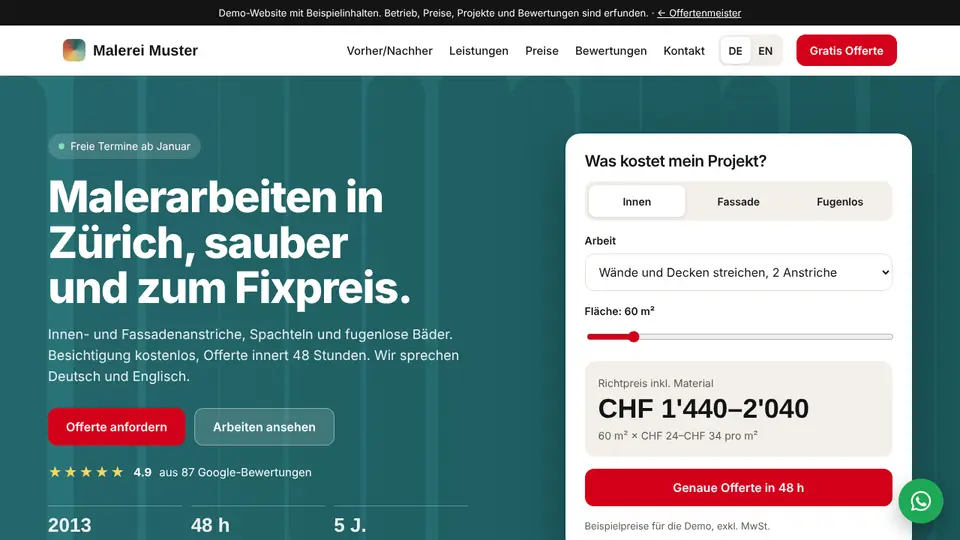
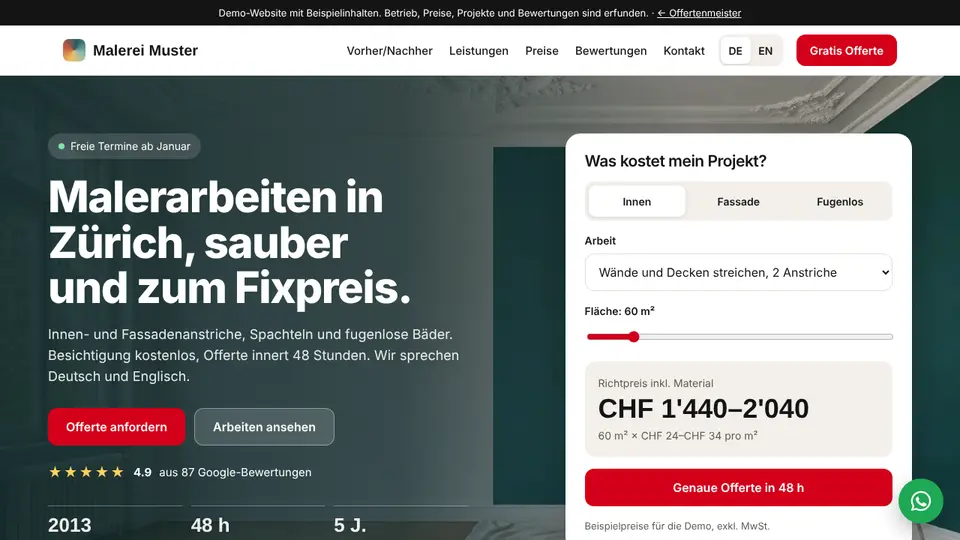
Basic-Demo: echte Fotos für Titelbild, Vorher/Nachher (2 Projekte), Inhaber und Leistungen
Claude-Session: https://claude.ai/code/session_01QJ9qhBWSWt6m13eEh928jz

diff --git a/demo/basic/index.html b/demo/basic/index.html
@@ -38,8 +38,10 @@ nav .wrap{display:flex;align-items:center;gap:18px;padding:12px max(5vw,16px)}
 .btn svg{width:20px;height:20px;fill:currentColor;flex:none}
 .btn:focus-visible,input:focus-visible,select:focus-visible,summary:focus-visible,button:focus-visible,.ba input:focus-visible{outline:3px solid var(--red);outline-offset:2px}
 nav .btn{min-height:42px;padding:0 18px;font-size:15px}
-.hero{position:relative;background:var(--petrol);color:#fff;overflow:hidden;padding-bottom:clamp(48px,6vw,88px)}
-.hero>svg{position:absolute;inset:0;width:100%;height:100%}
+.hero{position:relative;background:#0e2628;color:#fff;overflow:hidden;padding-bottom:clamp(48px,6vw,88px)}
+.hero-bg{position:absolute;inset:0;width:100%;height:100%;object-fit:cover;object-position:center}
+.hero::before{content:"";position:absolute;inset:0;z-index:1;background:linear-gradient(90deg,rgba(14,38,40,.92) 0%,rgba(14,38,40,.78) 42%,rgba(14,38,40,.25) 72%,rgba(14,38,40,.1) 100%)}
+.hero .hgrid{z-index:2}
 .hgrid{position:relative;display:grid;grid-template-columns:minmax(0,1.15fr) minmax(0,.85fr);gap:clamp(28px,5vw,72px);align-items:center}
 .pill{display:inline-flex;gap:8px;align-items:center;background:rgba(255,255,255,.14);border-radius:999px;padding:6px 14px;font-size:14px;margin-bottom:20px}
 .pill b{width:8px;height:8px;border-radius:50%;background:#7ee2a8}
@@ -69,16 +71,19 @@ input[type=file]{padding:12px}
 .sec-head{display:flex;flex-wrap:wrap;justify-content:space-between;align-items:end;gap:14px 40px}
 .sec-head p{color:var(--soft);max-width:34em}
 .ba{position:relative;margin-top:30px;border-radius:20px;overflow:hidden;height:clamp(260px,38vw,440px);background:#bdb6ab;user-select:none}
-.ba svg{position:absolute;inset:0;width:100%;height:100%}
+.ba img{position:absolute;inset:0;width:100%;height:100%;object-fit:cover}
 .ba .after{clip-path:inset(0 0 0 var(--x,50%))}
 .ba .bar{position:absolute;top:0;bottom:0;left:var(--x,50%);width:3px;background:#fff;transform:translateX(-50%);pointer-events:none}
 .ba .knob{position:absolute;top:50%;left:var(--x,50%);width:52px;height:52px;border-radius:50%;background:#fff;color:#141414;display:grid;place-items:center;transform:translate(-50%,-50%);font-weight:800;box-shadow:0 6px 18px rgba(0,0,0,.25);pointer-events:none}
 .ba input{position:absolute;inset:0;width:100%;height:100%;opacity:0;cursor:ew-resize;margin:0}
+.proj{display:flex;gap:8px;margin-top:14px;flex-wrap:wrap}.proj button{font:600 15px Inter,sans-serif;min-height:46px;padding:0 18px;border-radius:999px;border:1.5px solid var(--line);background:var(--card);color:var(--ink);cursor:pointer}.proj button[aria-pressed=true]{background:var(--ink);color:var(--bg);border-color:var(--ink)}
 .tag{position:absolute;top:16px;padding:6px 12px;border-radius:999px;background:rgba(20,20,20,.7);color:#fff;font-size:14px;font-weight:600;pointer-events:none}
 .bento{display:grid;grid-template-columns:repeat(4,minmax(0,1fr));gap:14px;margin-top:30px}
 .tile{background:var(--card);border:1px solid var(--line);border-radius:18px;padding:22px;display:grid;gap:10px;align-content:start}
 .tile.big{grid-column:span 2;grid-row:span 2;background:var(--petrol);color:#fff;border:0;align-content:end;min-height:300px;position:relative;overflow:hidden}
-.tile.big svg.bg{position:absolute;inset:0;width:100%;height:100%}
+.tile.big img.bg{position:absolute;inset:0;width:100%;height:100%;object-fit:cover}
+.tile.big::after{content:"";position:absolute;inset:0;background:linear-gradient(180deg,rgba(14,38,40,0) 25%,rgba(14,38,40,.88) 100%)}
+.tile.big>*:not(img){z-index:1}
 .tile.big>*{position:relative}
 .tile p{color:var(--soft);font-size:15px}
 .tile.big p{color:#fff;opacity:.9}
@@ -124,7 +129,7 @@ footer p{opacity:.75}
 .lang button{font:600 14px Inter,sans-serif;min-height:36px;min-width:40px;border:0;border-radius:8px;background:transparent;color:var(--ink);cursor:pointer}
 .lang button[aria-pressed=true]{background:var(--card);box-shadow:0 1px 3px rgba(0,0,0,.15)}
 .owner{display:grid;grid-template-columns:200px minmax(0,1fr);gap:28px;align-items:center}
-.owner svg{width:200px;height:200px;border-radius:24px;display:block}
+.owner img{width:200px;height:200px;border-radius:24px;display:block;object-fit:cover}
 .facts2{display:grid;grid-template-columns:repeat(3,minmax(0,1fr));gap:12px;margin-top:20px}
 .facts2 div{background:var(--plaster);border-radius:14px;padding:14px;font-size:14px}
 .facts2 b{display:block;font:800 20px "Inter Tight",sans-serif}
@@ -147,7 +152,7 @@ footer p{opacity:.75}
 @media(prefers-reduced-motion:reduce){*{transition:none!important;scroll-behavior:auto!important}}
 @media(max-width:980px){.bento{grid-template-columns:repeat(2,minmax(0,1fr))}.steps{grid-template-columns:repeat(2,minmax(0,1fr))}.revs{grid-template-columns:minmax(0,1fr)}}
 @media(max-width:800px){.hgrid,.two{grid-template-columns:minmax(0,1fr)}.links{display:none}}
-@media(max-width:600px){.owner{grid-template-columns:minmax(0,1fr)}.owner svg{width:140px;height:140px}.facts2{grid-template-columns:minmax(0,1fr)}.bento,.steps,.row2{grid-template-columns:minmax(0,1fr)}.tile.big{grid-column:auto;grid-row:auto;min-height:240px}.trust b{font-size:21px}.cta .btn{flex:1}nav .btn{display:none}.ba{height:260px}.revtop .btn{margin-left:0;width:100%}.wafab{display:none}.mbar{display:grid;grid-template-columns:1fr 1fr 1fr;gap:8px;position:fixed;left:0;right:0;bottom:0;z-index:30;padding:10px 12px calc(10px + env(safe-area-inset-bottom,0px));background:var(--bg);border-top:1px solid var(--line)}.mbar .btn{padding:0 8px;font-size:15px}body{padding-bottom:72px}}
+@media(max-width:600px){.owner{grid-template-columns:minmax(0,1fr)}.owner img{width:140px;height:140px}.facts2{grid-template-columns:minmax(0,1fr)}.bento,.steps,.row2{grid-template-columns:minmax(0,1fr)}.tile.big{grid-column:auto;grid-row:auto;min-height:240px}.trust b{font-size:21px}.cta .btn{flex:1}nav .btn{display:none}.ba{height:260px}.revtop .btn{margin-left:0;width:100%}.wafab{display:none}.mbar{display:grid;grid-template-columns:1fr 1fr 1fr;gap:8px;position:fixed;left:0;right:0;bottom:0;z-index:30;padding:10px 12px calc(10px + env(safe-area-inset-bottom,0px));background:var(--bg);border-top:1px solid var(--line)}.mbar .btn{padding:0 8px;font-size:15px}body{padding-bottom:72px}}
 </style>
 </head>
 <body>
@@ -160,12 +165,7 @@ footer p{opacity:.75}
 </div></nav>
 
 <header class="band hero" id="top">
-  <svg viewBox="0 0 1200 700" preserveAspectRatio="xMidYMid slice" aria-hidden="true">
-    <defs><linearGradient id="lt" x1="0" x2="1"><stop offset="0" stop-color="#2a7479"/><stop offset="1" stop-color="#1f5f63"/></linearGradient></defs>
-    <rect width="1200" height="700" fill="url(#lt)"/>
-    <g opacity=".22" fill="#0f3a3c" id="strokes"></g>
-    <rect x="0" y="660" width="1200" height="40" fill="#174a4d"/>
-  </svg>
+  <img class="hero-bg" src="img/hero.webp" width="1344" height="752" alt="" fetchpriority="high">
   <div class="wrap hgrid">
     <div>
       <span class="pill"><b></b><span data-t="slots"></span></span>
@@ -190,24 +190,13 @@ footer p{opacity:.75}
 <section class="band" id="vorher"><div class="wrap">
   <div class="sec-head"><h2 data-t="baH"></h2><p data-t="baP"></p></div>
   <div class="ba" id="ba">
-    <svg viewBox="0 0 1200 440" preserveAspectRatio="xMidYMid slice" aria-hidden="true">
-      <rect width="1200" height="440" fill="#bfb8ac"/>
-      <g fill="#a89f91" opacity=".7"><ellipse cx="220" cy="120" rx="120" ry="60"/><ellipse cx="760" cy="80" rx="160" ry="50"/><ellipse cx="980" cy="260" rx="110" ry="70"/></g>
-      <path d="M360 40 L400 120 L380 170 L430 250 M820 180 L860 230 L850 300" stroke="#7d7466" stroke-width="3" fill="none"/>
-      <rect x="520" y="90" width="180" height="230" fill="#d8d2c6" opacity=".6"/>
-      <rect x="0" y="380" width="1200" height="60" fill="#8f7a60"/><rect x="0" y="372" width="1200" height="10" fill="#cfc8bb"/>
-    </svg>
-    <svg class="after" viewBox="0 0 1200 440" preserveAspectRatio="xMidYMid slice" aria-hidden="true">
-      <rect width="1200" height="440" fill="#e9e1d2"/>
-      <rect x="0" y="0" width="760" height="372" fill="#2a6f77"/>
-      <rect x="520" y="90" width="180" height="230" rx="4" fill="#f6f1e6"/><rect x="532" y="102" width="156" height="206" fill="#e6c27a"/>
-      <g transform="translate(980 372)"><rect x="-20" y="-170" width="40" height="170" fill="#c8553d"/><circle cy="-200" r="50" fill="#8fb9a8"/></g>
-      <rect x="0" y="380" width="1200" height="60" fill="#b48a5a"/><rect x="0" y="372" width="1200" height="10" fill="#fbf8f2"/>
-    </svg>
+    <img id="baB" src="img/wohnzimmer-vorher.webp" width="1072" height="600" alt="">
+    <img id="baA" class="after" src="img/wohnzimmer-nachher.webp" width="1072" height="600" alt="">
     <span class="tag" style="left:16px" data-t="before"></span><span class="tag" style="right:16px" data-t="after"></span>
     <div class="bar"></div><div class="knob">↔</div>
     <input type="range" min="0" max="100" value="50" id="bax" aria-label="Vorher / nachher">
   </div>
+  <div class="proj" role="group" id="proj"><button type="button" aria-pressed="true" data-p="0" data-t="p1"></button><button type="button" aria-pressed="false" data-p="1" data-t="p2"></button></div>
 </div></section>
 
 <section class="band" id="leistungen" style="padding-top:0"><div class="wrap">
@@ -242,7 +231,7 @@ footer p{opacity:.75}
 
 <section class="band" id="team"><div class="wrap two">
   <div class="owner">
-    <svg viewBox="0 0 200 200" aria-hidden="true"><rect width="200" height="200" fill="#e9c46a"/><circle cx="100" cy="82" r="38" fill="#c98f6b"/><path d="M62 70 Q100 30 138 70 L138 60 Q100 20 62 60Z" fill="#3d3a36"/><rect x="48" y="58" width="104" height="14" rx="7" fill="#f4f1de"/><path d="M30 200 Q30 130 100 128 Q170 130 170 200Z" fill="#f4f1de"/><path d="M78 132 L100 170 L122 132" fill="#1f5f63"/><circle cx="140" cy="168" r="8" fill="#d4001a"/></svg>
+    <img src="img/inhaber.webp" width="536" height="536" alt="Max Muster, Inhaber und Malermeister (Beispielbild)" loading="lazy">
     <div>
       <h2 data-t="ownH"></h2>
       <p class="sub" data-t="ownP"></p>
@@ -306,14 +295,14 @@ footer p{opacity:.75}
 <script>
 {
 const T={
-de:{demo:'Demo-Website mit Beispielinhalten. Betrieb, Preise, Projekte und Bewertungen sind erfunden.',nBA:'Vorher/Nachher',nSvc:'Leistungen',nPr:'Preise',nRev:'Bewertungen',nCon:'Kontakt',quoteFree:'Gratis Offerte',slots:'Freie Termine ab Januar',h1:'Malerarbeiten in Zürich, sauber und zum Fixpreis.',lead:'Innen- und Fassadenanstriche, Spachteln und fugenlose Bäder. Besichtigung kostenlos, Offerte innert 48 Stunden. Wir sprechen Deutsch und Englisch.',quoteReq:'Offerte anfordern',seeWork:'Arbeiten ansehen',gline:'aus 87 Google-Bewertungen',tr1:'im Handwerk',tr2:'bis zur Offerte',tr3b:'5 J.',tr3:'Garantie auf Anstriche',calcH:'Was kostet mein Projekt?',cat0:'Innen',cat1:'Fassade',cat2:'Fugenlos',work:'Arbeit',area:'Fläche',guide:'Richtpreis inkl. Material',exact:'Genaue Offerte in 48 h',demoPr:'Beispielpreise für die Demo, exkl. MwSt.',baH:'Vorher und nachher',baP:'Ziehen Sie den Regler. Auf der echten Website stehen hier Fotos Ihrer eigenen Projekte.',before:'Vorher',after:'Nachher',svcH:'Leistungen',svcP:'Für Wohnungen, Häuser, Verwaltungen und Gewerbe. Wir decken ab, arbeiten sauber und räumen am Abend auf.',prH:'Richtpreise',prP:'Inklusive Material, exklusive MwSt. Den Fixpreis erhalten Sie nach der Besichtigung.',fixH:'Fixpreis pro Position',fixP:'Keine Stundenabrechnung, keine Überraschungen.',from:'ab',stepsH:'In vier Schritten zur neuen Wand',revH:'Das sagen unsere Kunden',revP:'Echte Bewertungen von Google erscheinen hier automatisch. In der Demo sind es Beispiele.',revCount:'87 Bewertungen auf Google',revAll:'Alle Bewertungen ansehen',ownH:'Ein Ansprechpartner von der Besichtigung bis zur Abnahme',ownP:'Max Muster, Inhaber und Malermeister. Er kommt selbst zur Besichtigung und ist bei jedem Projekt auf der Baustelle.',f1b:'Fixpreis',f1:'pro Position, schriftlich',f2b:'Versichert',f2:'Betriebshaftpflicht bis CHF 5 Mio.',f3b:'Sauber',f3:'Abdecken und Reinigung inklusive',areaH:'Einsatzgebiet',faqH:'Häufige Fragen',offH:'Gratis Offerte anfordern',offP:'In 3 kurzen Schritten, unter einer Minute. Wir melden uns am gleichen Arbeitstag.',cTel:'Telefon',cMail:'E-Mail',cAdr:'Adresse',cHrs:'Zeiten',hrs:'Mo–Fr 07:00–17:00',waBtn:'Fotos per WhatsApp schicken',w1:'1. Was dürfen wir für Sie machen?',w2:'2. Wo und wann?',w3:'3. Wie erreichen wir Sie?',wArea:'Fläche ca. (m²)',wPlz:'PLZ / Ort',wDate:'Wunschtermin',wFoto:'Fotos (optional, hilft für die Offerte)',wName:'Name',wMail:'E-Mail (optional)',back:'Zurück',next:'Weiter',send:'Anfrage senden',errPick:'Bitte wählen Sie eine Arbeit aus.',errC:'Bitte Name und Telefon angeben, damit wir Sie erreichen.',thx:(n,p)=>`<b>Danke, ${n}.</b> Anfrage: ${p}. In der Demo wird nichts gesendet. Auf der echten Website kommt sie sofort per WhatsApp und E-Mail beim Betrieb an.`,waDemo:'In der Demo öffnet sich kein Chat. Auf der echten Website startet hier direkt ein WhatsApp-Chat mit dem Betrieb.',legal:'Impressum · Datenschutz',demoFoot:'Demo-Website, alle Angaben sind Beispiele.',call:'Anrufen',quote:'Offerte',perM2:'pro m²',
+de:{demo:'Demo-Website mit Beispielinhalten. Betrieb, Preise, Projekte und Bewertungen sind erfunden.',nBA:'Vorher/Nachher',nSvc:'Leistungen',nPr:'Preise',nRev:'Bewertungen',nCon:'Kontakt',quoteFree:'Gratis Offerte',slots:'Freie Termine ab Januar',h1:'Malerarbeiten in Zürich, sauber und zum Fixpreis.',lead:'Innen- und Fassadenanstriche, Spachteln und fugenlose Bäder. Besichtigung kostenlos, Offerte innert 48 Stunden. Wir sprechen Deutsch und Englisch.',quoteReq:'Offerte anfordern',seeWork:'Arbeiten ansehen',gline:'aus 87 Google-Bewertungen',tr1:'im Handwerk',tr2:'bis zur Offerte',tr3b:'5 J.',tr3:'Garantie auf Anstriche',calcH:'Was kostet mein Projekt?',cat0:'Innen',cat1:'Fassade',cat2:'Fugenlos',work:'Arbeit',area:'Fläche',guide:'Richtpreis inkl. Material',exact:'Genaue Offerte in 48 h',demoPr:'Beispielpreise für die Demo, exkl. MwSt.',baH:'Vorher und nachher',baP:'Ziehen Sie den Regler. Auf der echten Website stehen hier Fotos Ihrer eigenen Projekte.',before:'Vorher',after:'Nachher',p1:'Wohnzimmer, Zürich-Oerlikon',p2:'Fassade, Dübendorf',svcH:'Leistungen',svcP:'Für Wohnungen, Häuser, Verwaltungen und Gewerbe. Wir decken ab, arbeiten sauber und räumen am Abend auf.',prH:'Richtpreise',prP:'Inklusive Material, exklusive MwSt. Den Fixpreis erhalten Sie nach der Besichtigung.',fixH:'Fixpreis pro Position',fixP:'Keine Stundenabrechnung, keine Überraschungen.',from:'ab',stepsH:'In vier Schritten zur neuen Wand',revH:'Das sagen unsere Kunden',revP:'Echte Bewertungen von Google erscheinen hier automatisch. In der Demo sind es Beispiele.',revCount:'87 Bewertungen auf Google',revAll:'Alle Bewertungen ansehen',ownH:'Ein Ansprechpartner von der Besichtigung bis zur Abnahme',ownP:'Max Muster, Inhaber und Malermeister. Er kommt selbst zur Besichtigung und ist bei jedem Projekt auf der Baustelle.',f1b:'Fixpreis',f1:'pro Position, schriftlich',f2b:'Versichert',f2:'Betriebshaftpflicht bis CHF 5 Mio.',f3b:'Sauber',f3:'Abdecken und Reinigung inklusive',areaH:'Einsatzgebiet',faqH:'Häufige Fragen',offH:'Gratis Offerte anfordern',offP:'In 3 kurzen Schritten, unter einer Minute. Wir melden uns am gleichen Arbeitstag.',cTel:'Telefon',cMail:'E-Mail',cAdr:'Adresse',cHrs:'Zeiten',hrs:'Mo–Fr 07:00–17:00',waBtn:'Fotos per WhatsApp schicken',w1:'1. Was dürfen wir für Sie machen?',w2:'2. Wo und wann?',w3:'3. Wie erreichen wir Sie?',wArea:'Fläche ca. (m²)',wPlz:'PLZ / Ort',wDate:'Wunschtermin',wFoto:'Fotos (optional, hilft für die Offerte)',wName:'Name',wMail:'E-Mail (optional)',back:'Zurück',next:'Weiter',send:'Anfrage senden',errPick:'Bitte wählen Sie eine Arbeit aus.',errC:'Bitte Name und Telefon angeben, damit wir Sie erreichen.',thx:(n,p)=>`<b>Danke, ${n}.</b> Anfrage: ${p}. In der Demo wird nichts gesendet. Auf der echten Website kommt sie sofort per WhatsApp und E-Mail beim Betrieb an.`,waDemo:'In der Demo öffnet sich kein Chat. Auf der echten Website startet hier direkt ein WhatsApp-Chat mit dem Betrieb.',legal:'Impressum · Datenschutz',demoFoot:'Demo-Website, alle Angaben sind Beispiele.',call:'Anrufen',quote:'Offerte',perM2:'pro m²',
  prices:['Wände und Decken streichen, 2 Anstriche','Spachteln Q3 inkl. Schleifen','Tapezieren Vlies','Fassade streichen, ohne Gerüst','Fassade reinigen und grundieren','Mikrozement fugenlos, Wand','Mikrozement fugenlos, Boden','Türe lackieren, beidseitig'],unit:['m²','Stk.'],
  wo:['Innen streichen','Fassade','Spachteln / Gipsen','Fugenloses Bad','Tapezieren','Anderes'],
  steps:[['Anfrage','Formular oder WhatsApp, gerne mit ein paar Fotos.'],['Besichtigung','Kostenlos vor Ort, wir messen aus und beraten zu Farben.'],['Offerte in 48 h','Klarer Fixpreis pro Position.'],['Ausführung','Termingerecht, sauber, gemeinsame Abnahme.']],
  tiles:[['Innenanstriche','Wände, Decken, Treppenhäuser. Auch kurzfristig bei Mieterwechsel.'],['Fassaden','Reinigung, Grundierung, Anstrich, Gerüst inklusive Planung.'],['Spachteln Q3/Q4','Glatte Wände, Risse sauber geschlossen.'],['Fugenlose Bäder','Mikrozement direkt auf alte Platten, ohne Abbruch.'],['Tapezieren','Vlies, Glasfaser, Designtapeten.'],['Lackierarbeiten','Türen, Fenster, Radiatoren, Holz.'],['Verwaltungen','Feste Ansprechperson und schnelle Termine bei Wohnungswechsel.']],
  revs:[['Sandra K.','vor 2 Wochen','Wohnung in Oerlikon in drei Tagen gestrichen, alles abgedeckt und am Abend aufgeräumt. Der Preis war genau wie in der Offerte.'],['Thomas B.','vor 1 Monat','Unser altes Bad wurde mit Mikrozement fugenlos gemacht, ohne Abbruch. Sieht aus wie neu, wir sind begeistert.'],['Verwaltung Limmat AG','vor 2 Monaten','Zuverlässiger Partner bei Mieterwechseln. Kurzfristige Termine, saubere Rapporte und faire Preise.']],
  faq:[['Ist die Besichtigung wirklich kostenlos?','Ja. Wir kommen vorbei, messen aus und Sie erhalten innert 48 Stunden eine schriftliche Offerte, ohne Verpflichtung.'],['Wie lange dauert eine 4-Zimmer-Wohnung?','Meist 3 bis 5 Arbeitstage, je nach Zustand der Wände und Anzahl Farben.'],['Müssen wir die Möbel selbst wegräumen?','Nein. Wir rücken Möbel zur Seite und decken alles ab. Wertgegenstände bitte vorher wegstellen.'],['Welche Farben verwenden Sie?','Schweizer Markenfarben, auf Wunsch emissionsarm und für Allergiker geeignet.'],['Kann man Mikrozement auf alte Platten auftragen?','Ja, wenn die Platten fest sitzen. So entfällt der Abbruch und das Bad ist in wenigen Tagen fertig.']]},
-en:{demo:'Demo website with sample content. Business, prices, projects and reviews are made up.',nBA:'Before/After',nSvc:'Services',nPr:'Prices',nRev:'Reviews',nCon:'Contact',quoteFree:'Free quote',slots:'Free slots from January',h1:'Painting in Zurich, clean and at a fixed price.',lead:'Interior and facade painting, smoothing and seamless bathrooms. Free on-site visit, written quote within 48 hours. We speak German and English.',quoteReq:'Request a quote',seeWork:'See our work',gline:'from 87 Google reviews',tr1:'in the trade',tr2:'to your quote',tr3b:'5 yrs',tr3:'warranty on paintwork',calcH:'What will my project cost?',cat0:'Interior',cat1:'Facade',cat2:'Seamless',work:'Job',area:'Area',guide:'Guide price incl. material',exact:'Exact quote in 48 h',demoPr:'Sample prices for the demo, excl. VAT.',baH:'Before and after',baP:'Drag the slider. On the real website you will see photos of your own projects here.',before:'Before',after:'After',svcH:'Services',svcP:'For flats, houses, property managers and businesses. We cover everything, work cleanly and tidy up every evening.',prH:'Guide prices',prP:'Including material, excluding VAT. You get the fixed price after the visit.',fixH:'Fixed price per item',fixP:'No hourly billing, no surprises.',from:'from',stepsH:'Four steps to a new wall',revH:'What our customers say',revP:'Real Google reviews appear here automatically. In the demo they are examples.',revCount:'87 reviews on Google',revAll:'See all reviews',ownH:'One contact from visit to handover',ownP:'Max Muster, owner and master painter. He does the site visit himself and is on site for every project.',f1b:'Fixed price',f1:'per item, in writing',f2b:'Insured',f2:'liability cover up to CHF 5 m',f3b:'Clean',f3:'covering and cleaning included',areaH:'Where we work',faqH:'Frequently asked questions',offH:'Get your free quote',offP:'3 short steps, under a minute. We reply the same working day.',cTel:'Phone',cMail:'Email',cAdr:'Address',cHrs:'Hours',hrs:'Mon–Fri 07:00–17:00',waBtn:'Send photos via WhatsApp',w1:'1. What can we do for you?',w2:'2. Where and when?',w3:'3. How can we reach you?',wArea:'Approx. area (m²)',wPlz:'Postcode / town',wDate:'Preferred date',wFoto:'Photos (optional, helps with the quote)',wName:'Name',wMail:'Email (optional)',back:'Back',next:'Next',send:'Send request',errPick:'Please choose a job.',errC:'Please enter your name and phone so we can reach you.',thx:(n,p)=>`<b>Thank you, ${n}.</b> Request: ${p}. Nothing is sent in the demo. On the real website it reaches the business instantly by WhatsApp and email.`,waDemo:'No chat opens in the demo. On the real website this starts a WhatsApp chat with the business.',legal:'Legal notice · Privacy',demoFoot:'Demo website, all details are examples.',call:'Call',quote:'Quote',perM2:'per m²',
+en:{demo:'Demo website with sample content. Business, prices, projects and reviews are made up.',nBA:'Before/After',nSvc:'Services',nPr:'Prices',nRev:'Reviews',nCon:'Contact',quoteFree:'Free quote',slots:'Free slots from January',h1:'Painting in Zurich, clean and at a fixed price.',lead:'Interior and facade painting, smoothing and seamless bathrooms. Free on-site visit, written quote within 48 hours. We speak German and English.',quoteReq:'Request a quote',seeWork:'See our work',gline:'from 87 Google reviews',tr1:'in the trade',tr2:'to your quote',tr3b:'5 yrs',tr3:'warranty on paintwork',calcH:'What will my project cost?',cat0:'Interior',cat1:'Facade',cat2:'Seamless',work:'Job',area:'Area',guide:'Guide price incl. material',exact:'Exact quote in 48 h',demoPr:'Sample prices for the demo, excl. VAT.',baH:'Before and after',baP:'Drag the slider. On the real website you will see photos of your own projects here.',before:'Before',after:'After',p1:'Living room, Zurich-Oerlikon',p2:'Facade, Dübendorf',svcH:'Services',svcP:'For flats, houses, property managers and businesses. We cover everything, work cleanly and tidy up every evening.',prH:'Guide prices',prP:'Including material, excluding VAT. You get the fixed price after the visit.',fixH:'Fixed price per item',fixP:'No hourly billing, no surprises.',from:'from',stepsH:'Four steps to a new wall',revH:'What our customers say',revP:'Real Google reviews appear here automatically. In the demo they are examples.',revCount:'87 reviews on Google',revAll:'See all reviews',ownH:'One contact from visit to handover',ownP:'Max Muster, owner and master painter. He does the site visit himself and is on site for every project.',f1b:'Fixed price',f1:'per item, in writing',f2b:'Insured',f2:'liability cover up to CHF 5 m',f3b:'Clean',f3:'covering and cleaning included',areaH:'Where we work',faqH:'Frequently asked questions',offH:'Get your free quote',offP:'3 short steps, under a minute. We reply the same working day.',cTel:'Phone',cMail:'Email',cAdr:'Address',cHrs:'Hours',hrs:'Mon–Fri 07:00–17:00',waBtn:'Send photos via WhatsApp',w1:'1. What can we do for you?',w2:'2. Where and when?',w3:'3. How can we reach you?',wArea:'Approx. area (m²)',wPlz:'Postcode / town',wDate:'Preferred date',wFoto:'Photos (optional, helps with the quote)',wName:'Name',wMail:'Email (optional)',back:'Back',next:'Next',send:'Send request',errPick:'Please choose a job.',errC:'Please enter your name and phone so we can reach you.',thx:(n,p)=>`<b>Thank you, ${n}.</b> Request: ${p}. Nothing is sent in the demo. On the real website it reaches the business instantly by WhatsApp and email.`,waDemo:'No chat opens in the demo. On the real website this starts a WhatsApp chat with the business.',legal:'Legal notice · Privacy',demoFoot:'Demo website, all details are examples.',call:'Call',quote:'Quote',perM2:'per m²',
  prices:['Walls and ceilings, 2 coats','Smoothing Q3 incl. sanding','Wallpapering, non-woven','Facade painting, without scaffold','Facade cleaning and priming','Microcement, seamless wall','Microcement, seamless floor','Door painting, both sides'],unit:['m²','pc'],
  wo:['Interior painting','Facade','Smoothing / plastering','Seamless bathroom','Wallpapering','Other'],
  steps:[['Request','Form or WhatsApp, ideally with a few photos.'],['Site visit','Free on site, we measure and advise on colours.'],['Quote in 48 h','Clear fixed price per item.'],['The work','On time, clean, joint handover.']],
@@ -328,8 +317,6 @@ const P=[[0,24,34,0],[0,32,45,0],[0,30,42,0],[1,38,55,0],[1,14,22,0],[2,170,240,
 const icons=[['M4 20h16M6 16l8-8 4 4-8 8H6z','#1f5f63'],['M3 21V9l9-6 9 6v12M9 21v-6h6v6','#c8553d'],['M4 18l10-10M12 4l8 8-4 4-8-8z','#3d405b'],['M3 7h18M3 12h18M3 17h18','#8a7f72'],['M5 3h14v18H5zM9 3v18','#c99a2e'],['M7 21h10M12 17v4M6 3h12v8a6 6 0 0 1-12 0z','#5f8f7e'],['M4 21V5h10v16M14 9h6v12M8 9h2M8 13h2M8 17h2','#2b2b2b']];
 const avc=['#1f5f63','#c8553d','#3d405b'];
 
-let s=7;const rnd=()=>(s=s*16807%2147483647)/2147483647;
-$('strokes').innerHTML=Array.from({length:14},(_,i)=>`<rect x="${i*90-20+rnd()*30}" y="${-40+rnd()*60}" width="${70+rnd()*30}" height="${600+rnd()*120}" rx="34"/>`).join('');
 $('areas').innerHTML=['Zürich Kreis 1–12','Winterthur','Dietikon','Schlieren','Dübendorf','Wallisellen','Kloten','Uster','Thalwil','Horgen','Küsnacht','Baden AG'].map(a=>`<span>${a}</span>`).join('');
 
 const fill=()=>{const v=$('cwork').value;$('cwork').innerHTML=P.map((p,i)=>p[0]===cat&&!p[3]?`<option value="${i}">${T[L].prices[i]}</option>`:'').join('');if([...$('cwork').options].some(o=>o.value===v))$('cwork').value=v};
@@ -340,7 +327,7 @@ const render=()=>{const t=T[L];
  document.querySelectorAll('[data-t]').forEach(el=>{const v=t[el.dataset.t];if(typeof v==='string')el.textContent=v});
  $('ptab').innerHTML=P.map((p,i)=>`<tr><td>${t.prices[i]}</td><td class="n">${chf(p[1])}/${t.unit[p[3]]}</td></tr>`).join('');
  $('steps').innerHTML=t.steps.map((x,i)=>`<div class="step"><i>${i+1}</i><h3>${x[0]}</h3><p>${x[1]}</p></div>`).join('');
- $('bento').innerHTML=t.tiles.map((x,i)=>i===0?`<div class="tile big"><svg class="bg" viewBox="0 0 400 300" preserveAspectRatio="xMidYMid slice" aria-hidden="true"><rect width="400" height="300" fill="#1f5f63"/><rect x="250" y="-20" width="70" height="360" rx="35" fill="#2a7479"/><rect x="330" y="-20" width="70" height="360" rx="35" fill="#174a4d"/></svg><div class="ico" style="background:rgba(255,255,255,.18)"><svg viewBox="0 0 24 24"><path d="${icons[i][0]}"/></svg></div><h3 style="font-size:26px">${x[0]}</h3><p>${x[1]}</p></div>`:`<div class="tile"><div class="ico" style="background:${icons[i][1]}"><svg viewBox="0 0 24 24"><path d="${icons[i][0]}"/></svg></div><h3>${x[0]}</h3><p>${x[1]}</p></div>`).join('');
+ $('bento').innerHTML=t.tiles.map((x,i)=>i===0?`<div class="tile big"><img class="bg" src="img/handwerk.webp" alt="" loading="lazy"><div class="ico" style="background:rgba(255,255,255,.18)"><svg viewBox="0 0 24 24"><path d="${icons[i][0]}"/></svg></div><h3 style="font-size:26px">${x[0]}</h3><p>${x[1]}</p></div>`:`<div class="tile"><div class="ico" style="background:${icons[i][1]}"><svg viewBox="0 0 24 24"><path d="${icons[i][0]}"/></svg></div><h3>${x[0]}</h3><p>${x[1]}</p></div>`).join('');
  $('revs').innerHTML=t.revs.map((r,i)=>`<div class="rev"><div class="who"><span style="background:${avc[i]}">${r[0][0]}</span><div>${r[0]}<div class="small">${r[1]} · Google</div></div></div><div class="st">★★★★★</div><p>${r[2]}</p></div>`).join('');
  const op=[...$('faq').querySelectorAll('details')].map(d=>d.open);
  $('faq').innerHTML=t.faq.map((q,i)=>`<details ${(op.length?op[i]:i===0)?'open':''}><summary>${q[0]}</summary><p>${q[1]}</p></details>`).join('');
@@ -352,6 +339,8 @@ const render=()=>{const t=T[L];
 $('seg').addEventListener('click',e=>{const b=e.target.closest('button');if(!b)return;cat=+b.dataset.c;$('seg').querySelectorAll('button').forEach(x=>x.setAttribute('aria-pressed',x===b));fill();calc()});
 $('cwork').addEventListener('change',calc);$('carea').addEventListener('input',calc);
 const ba=$('ba'),bx=$('bax');const setX=()=>ba.style.setProperty('--x',bx.value+'%');bx.addEventListener('input',setX);setX();
+const PJ=[['img/wohnzimmer-vorher.webp','img/wohnzimmer-nachher.webp'],['img/fassade-vorher.webp','img/fassade-nachher.webp']];
+$('proj').addEventListener('click',e=>{const b=e.target.closest('button');if(!b)return;const i=+b.dataset.p;$('proj').querySelectorAll('button').forEach(x=>x.setAttribute('aria-pressed',x===b));$('baB').src=PJ[i][0];$('baA').src=PJ[i][1]});
 
 $('wopts').addEventListener('click',e=>{const b=e.target.closest('button');if(!b)return;pick=+b.dataset.i;$('wopts').querySelectorAll('button').forEach(x=>x.setAttribute('aria-pressed',x===b));step=1;showStep()});
 $('wback').addEventListener('click',()=>{step=Math.max(0,step-1);showStep()});
